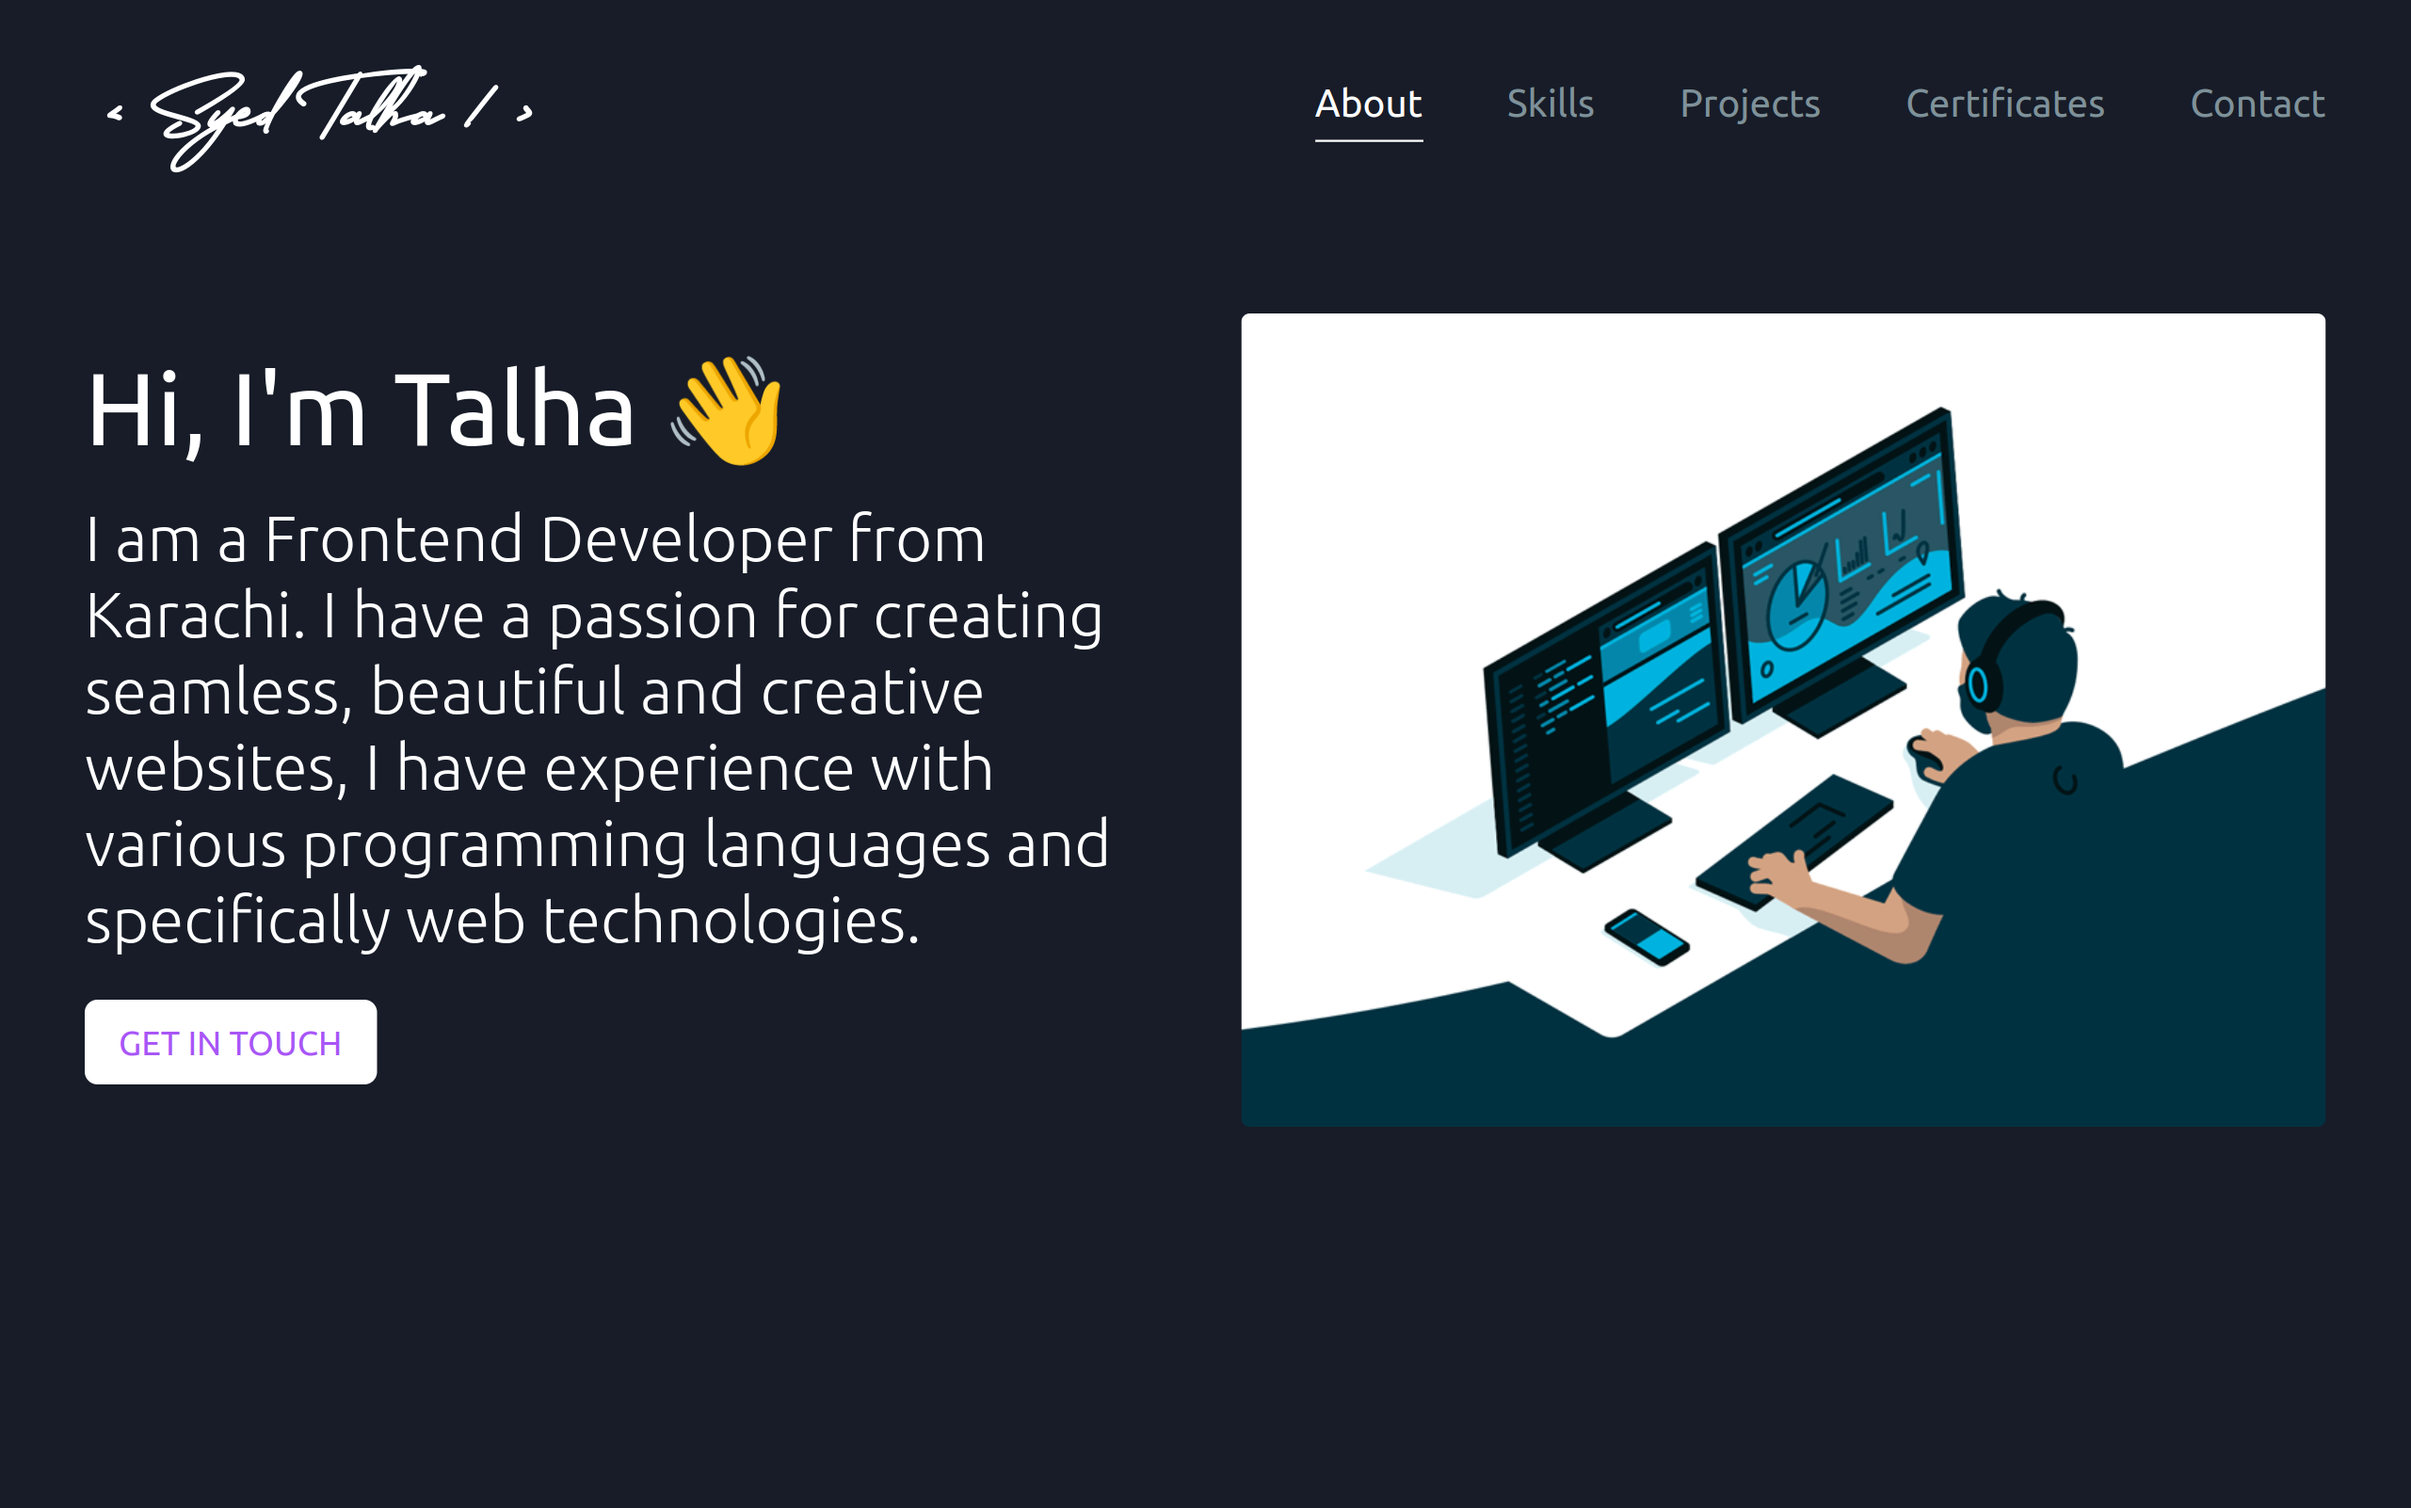
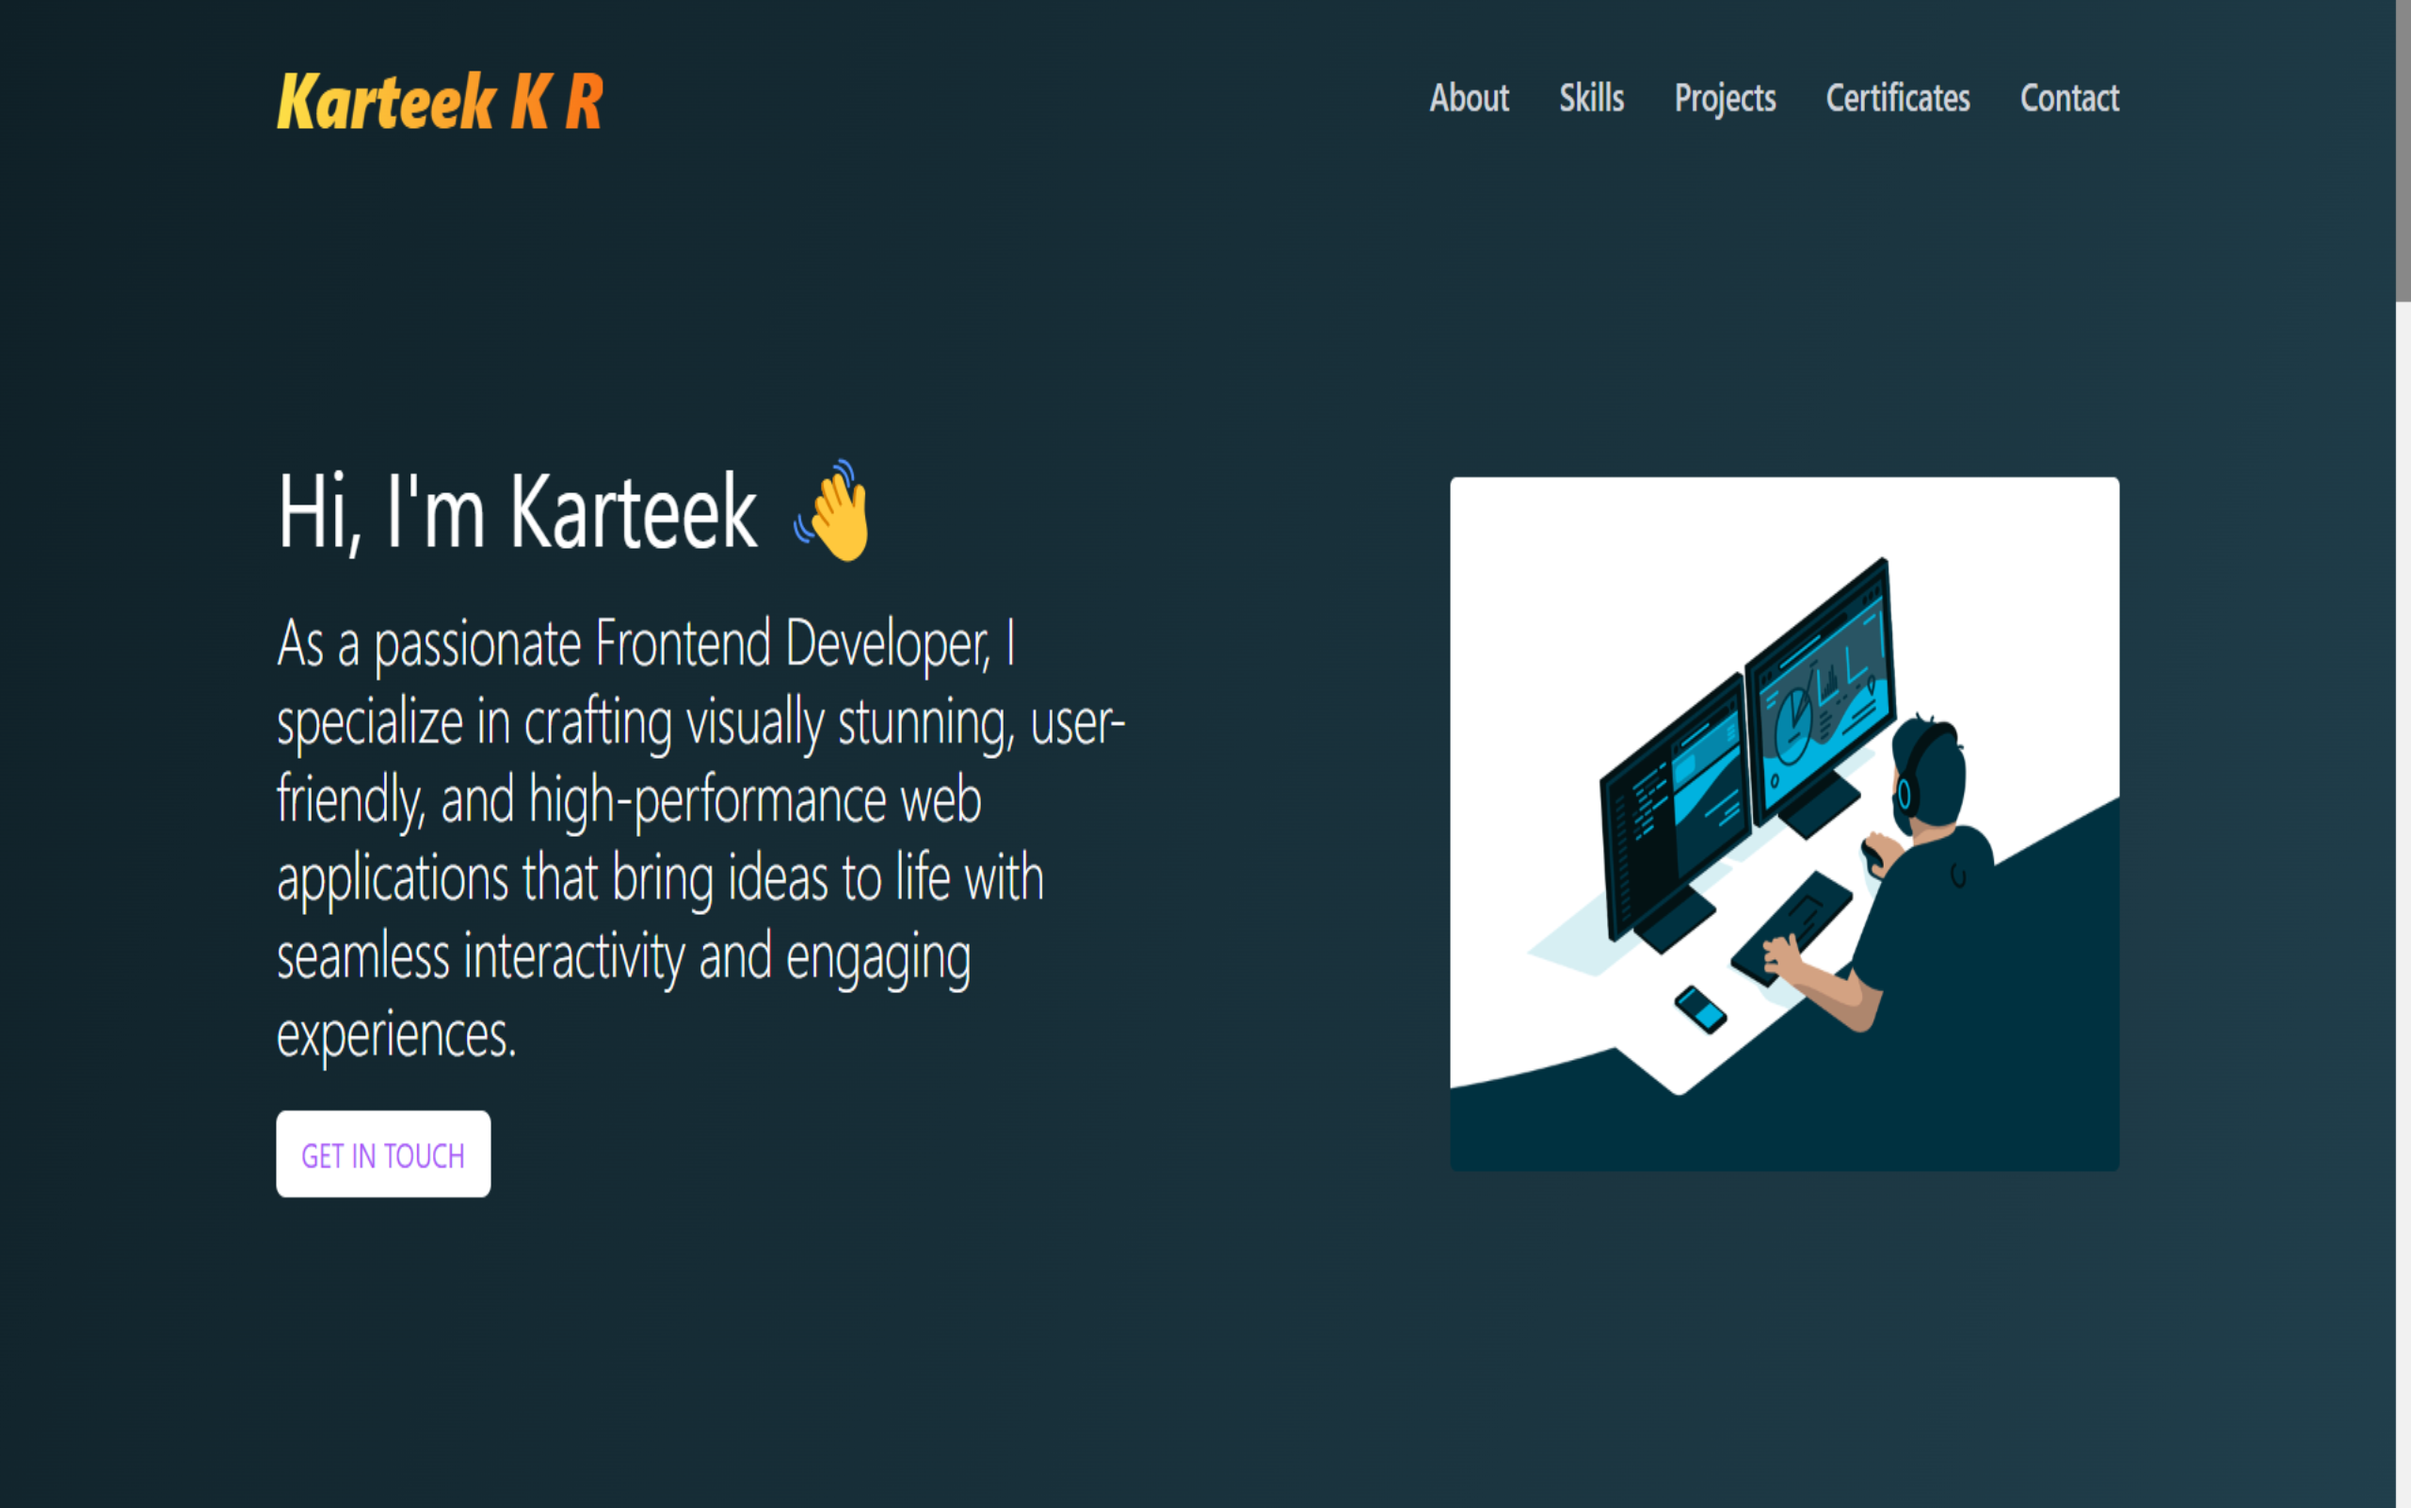
Project changes

diff --git a/src/components/Projects.jsx b/src/components/Projects.jsx
@@ -27,8 +27,8 @@ function Projects() {
       name: "Portfolio",
       description: "Personal Portfolio built with React.js & Tailwind CSS",
       links: {
-        gitHub: "https://github.com/talhashah-dev/portfolio",
-        hosted: "https://talhashah.vercel.app/"
+        gitHub: "https://github.com/karteekkr97/Portfolio-App",
+        hosted: "https://karteekkr-portfolio.netlify.app/"
       },
       tags: [
         "React", "Tailwind", "Javascript"
